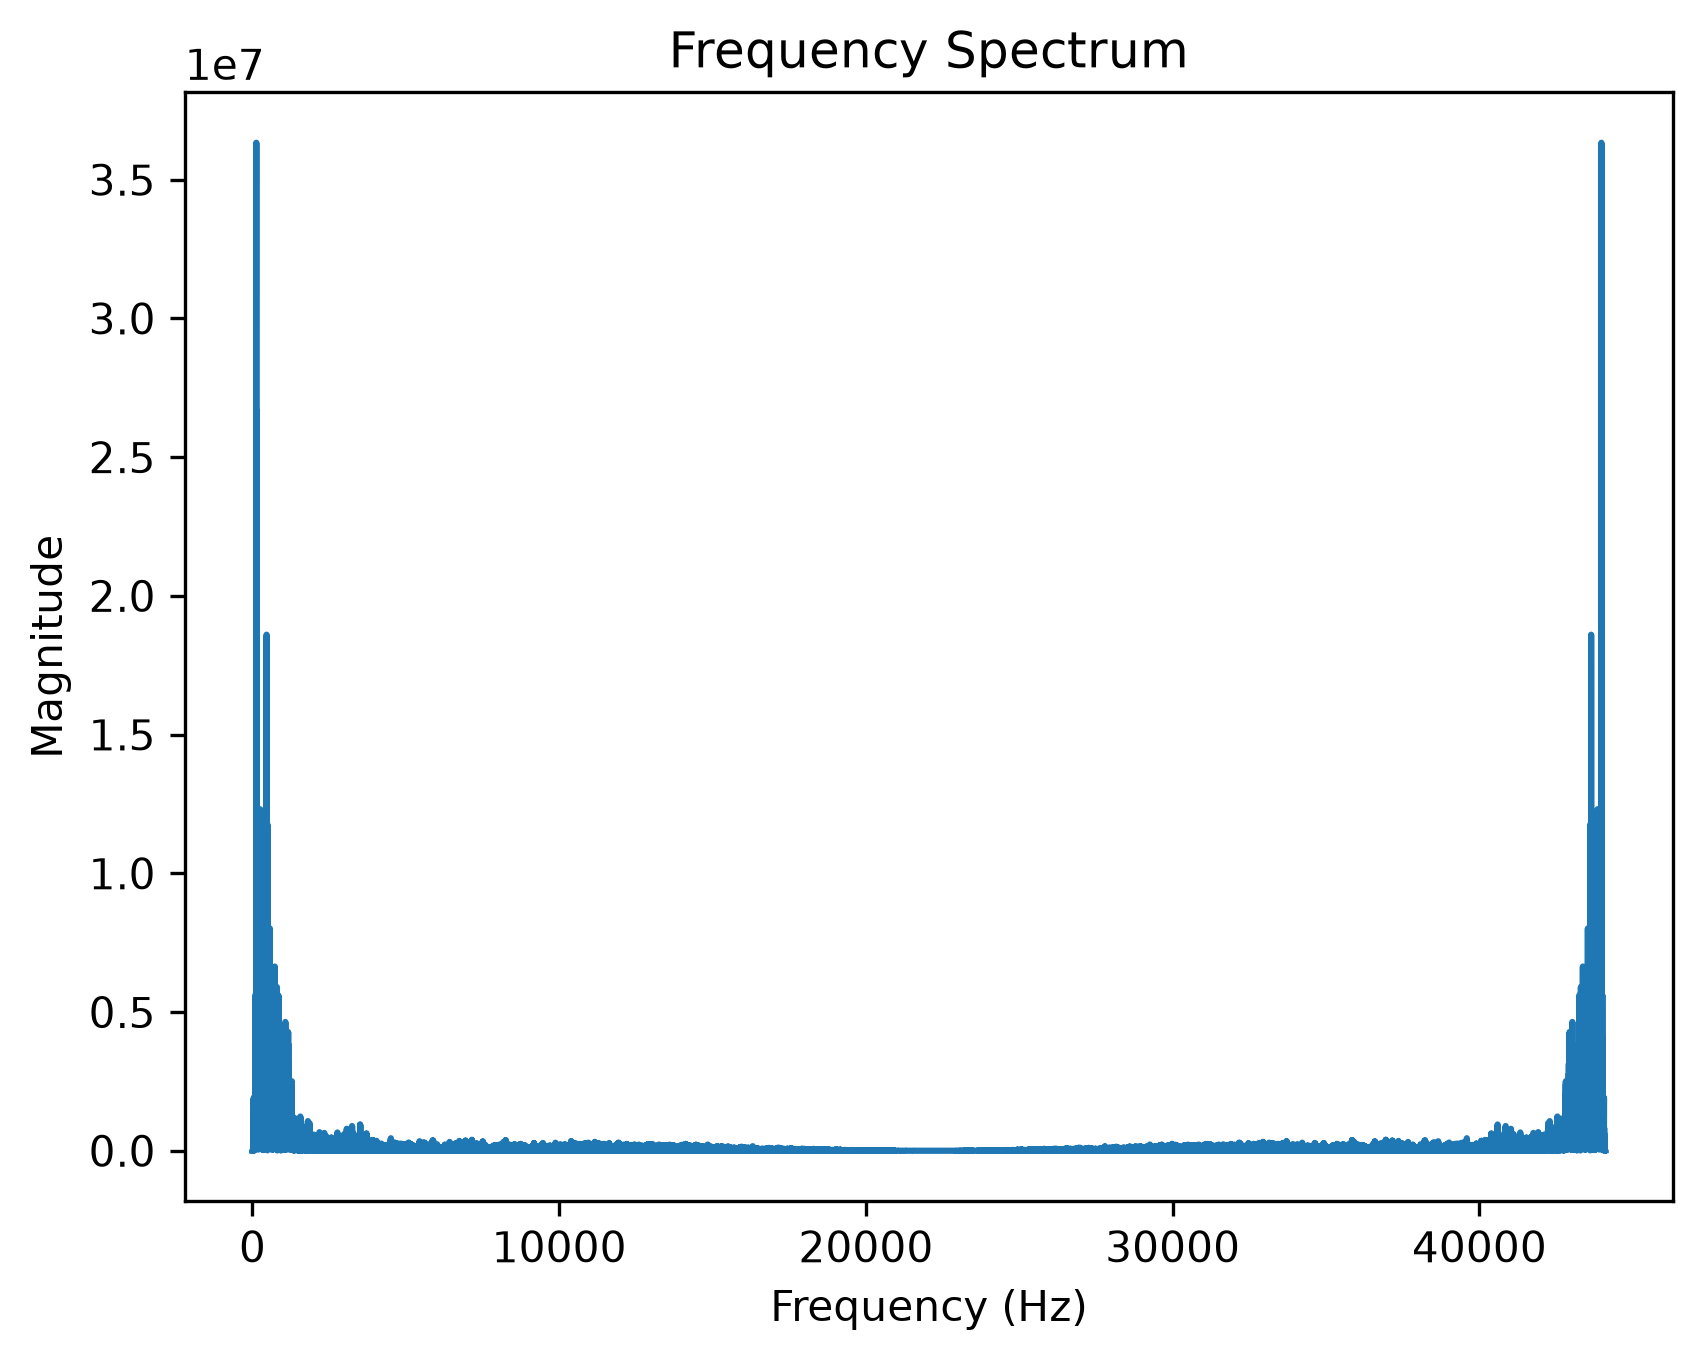
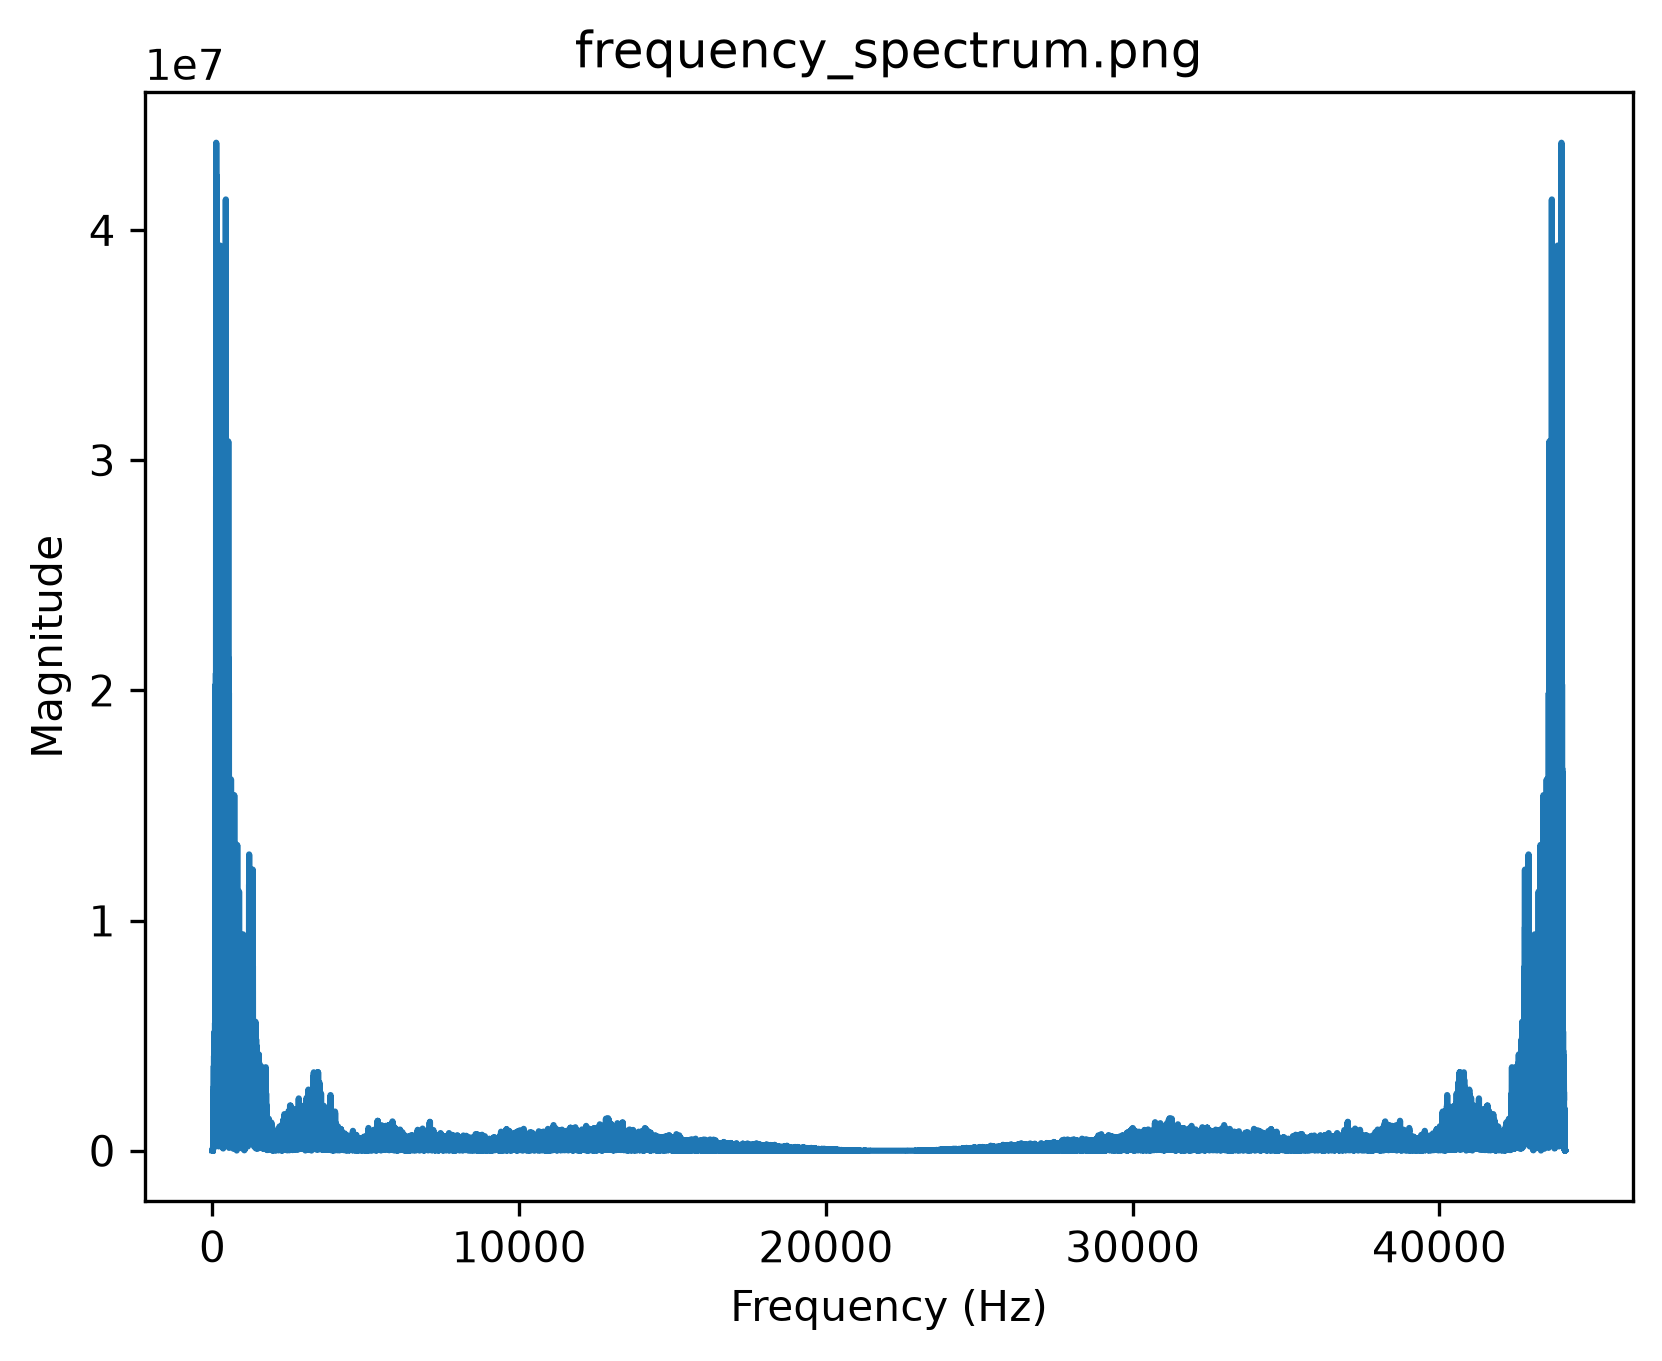
simplify code

diff --git a/fft.py b/fft.py
@@ -4,57 +4,33 @@ from scipy.io import wavfile
 
 #open the wav file
 def read_wav_file(file):
-    # 1. load the wav file
     sample_rate, data = wavfile.read(file)
-
-    # 2. print sample rate
-    print(f'Sample rate: {sample_rate} Hz')
-
-    # 3. Calculate time axis in seconds
-    duration = len(data) / sample_rate
-    time = np.linspace(0, duration, len(data))
+    time = np.arange(len(data)) / sample_rate
 
     return sample_rate, data, time
 
-def calculate_fft(sample_rate, data):
-    #1. fft
-    freqdata = np.fft.fft(data)
+def plot_time_spectrum(time, data, title):
+    plt.plot(time, data)
+    plt.xlabel('Time (s)')
+    plt.ylabel('Amplitude')
+    plt.savefig(title, dpi=300, bbox_inches='tight')
+    plt.clf()
 
-    #2. Create Frequency Axis
-    freqs = np.linspace(0, sample_rate, len(freqdata))
+def plot_frequency_spectrum(data, sample_rate, title):
+    spectrum = np.abs(np.fft.fft(data))
+    frequencies = np.linspace(0, sample_rate, len(spectrum))
 
-    return freqs, freqdata
+    plt.plot(frequencies, spectrum)
+    plt.xlabel("Frequency (Hz)")
+    plt.ylabel("Magnitude")
+    plt.title(title)
+    plt.savefig(title, dpi=300, bbox_inches="tight")
+    plt.close()
 
 
-def calculate_Nyquist_fft(freqs, freqdata):
-    #1. cut mirrored half of data
-    freqdatanyquist = freqdata[:len(freqdata)//2]
-    #2. cut number of frequencies by half
-    freqsnyquist = freqs[:len(freqs)//2]
+sample_rate_5cm, data_5cm, time_5cm = read_wav_file("dsp_audio_5cm.wav")
 
-    return freqsnyquist, freqdatanyquist
+plot_time_spectrum(time_5cm, data_5cm, 'time_spectrum.png')
+plot_frequency_spectrum(data_5cm, sample_rate_5cm, "frequency_spectrum.png")
 
-sample_rate, data, time = read_wav_file('dsp_audio_1m.wav')
-freqs, freqdata = calculate_fft(sample_rate, data)
-freqsnyquist, freqdatanyquist = calculate_Nyquist_fft(freqs, freqdata)
-
-plt.plot(time, data)
-plt.xlabel('Time (s)')
-plt.ylabel('Amplitude')
-plt.title('Audio Signal Waveform')
-plt.savefig('audio_signal_waveform.png', dpi=300, bbox_inches='tight')
-plt.clf()
-
-plt.plot(freqs, np.abs(freqdata))
-plt.xlabel('Frequency (Hz)')
-plt.ylabel('Magnitude')
-plt.title('Frequency Spectrum')
-plt.savefig('frequency_spectrum.png', dpi=300, bbox_inches='tight')
-plt.clf()
-
-plt.plot(freqsnyquist, np.abs(freqdatanyquist))
-plt.xlabel('Frequency (Hz)')
-plt.ylabel('Magnitude')
-plt.title('Frequency Spectrum')
-plt.savefig('frequency_spectrum_nyquist.png', dpi=300, bbox_inches='tight')
-plt.clf()
+# TODO write a function to automate the creation of frequency plots
